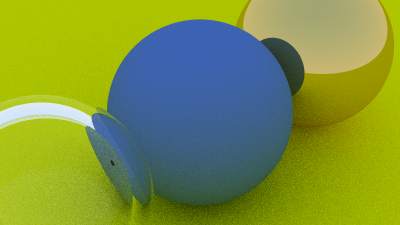
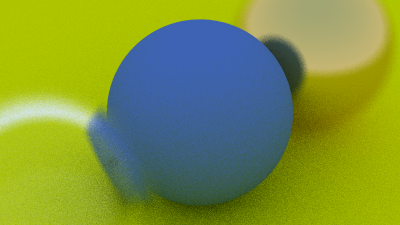
Depth of field

diff --git a/src/camera.cpp b/src/camera.cpp
@@ -14,12 +14,9 @@ void Camera::initialize() {
 
     m_cameraCenter = m_cameraProps.lookFrom;
 
-    const auto focalLength =
-        (m_cameraProps.lookFrom - m_cameraProps.lookAt).length();
-
     const auto theta = degreesToRadians(m_cameraProps.vFov);
     const auto height = std::tan(theta / 2);
-    const auto viewportHeight = 2.0 * height * focalLength;
+    const auto viewportHeight = 2.0 * height * m_cameraProps.focusDist;
     const auto viewportWidth =
         viewportHeight * (static_cast<double>(m_cameraProps.imageWidth) /
                           static_cast<double>(m_imageHeight));
@@ -34,9 +31,17 @@ void Camera::initialize() {
     m_pixelDeltaU = viewportU / static_cast<double>(m_cameraProps.imageWidth);
     m_pixelDeltaV = viewportV / static_cast<double>(m_imageHeight);
 
-    const auto viewportUpperLeft = m_cameraCenter - focalLength * m_cameraW -
+    const auto viewportUpperLeft = m_cameraCenter -
+                                   m_cameraProps.focusDist * m_cameraW -
                                    viewportU / 2 - viewportV / 2;
     m_pixel00Loc = viewportUpperLeft + 0.5 * (m_pixelDeltaU + m_pixelDeltaV);
+
+    const auto defocusRadius =
+        m_cameraProps.focusDist *
+        std::tan(degreesToRadians(m_cameraProps.defocusAngle / 2));
+
+    m_defocusDiskU = m_cameraU * defocusRadius;
+    m_defocusDiskV = m_cameraV * defocusRadius;
 
     // Renderer.
     m_image = cimg_library::CImg<uint8_t>(

diff --git a/include/camera.hpp b/include/camera.hpp
@@ -23,6 +23,8 @@ struct CameraProps {
     Point3 lookFrom = Point3{0, 0, -1};
     Point3 lookAt = Point3{0, 0, 0};
     Vec3 vUp = Vec3{0, 1, 0};
+    double defocusAngle = 0.0;
+    double focusDist = 10.0;
 };
 
 class Camera {
@@ -104,7 +106,8 @@ class Camera {
                            (static_cast<double>(jCoord) * m_pixelDeltaV);
         auto pixelSample = pixelCenter + pixelSampleSquare();
 
-        auto rayOrigin = m_cameraCenter;
+        auto rayOrigin = m_cameraProps.defocusAngle <= 0 ? m_cameraCenter
+                                                         : defocusDiskSample();
         auto rayDirection = pixelSample - rayOrigin;
 
         return Ray{rayOrigin, rayDirection};
@@ -116,6 +119,13 @@ class Camera {
         auto pointY = -0.5 + randomDouble();
 
         return (pointX * m_pixelDeltaU) + (pointY * m_pixelDeltaV);
+    }
+
+    [[nodiscard]]
+    auto defocusDiskSample() const -> Point3 {
+        const auto point = randomInUnitDisk();
+        return m_cameraCenter + (point.getX() * m_defocusDiskU) +
+               (point.getY() * m_defocusDiskV);
     }
 
     CameraProps m_cameraProps{};
@@ -130,6 +140,9 @@ class Camera {
     Vec3 m_cameraU{};
     Vec3 m_cameraV{};
     Vec3 m_cameraW{};
+
+    Vec3 m_defocusDiskU{};
+    Vec3 m_defocusDiskV{};
 
     cimg_library::CImg<uint8_t> m_image{};
 };

diff --git a/src/main.cpp b/src/main.cpp
@@ -16,6 +16,8 @@ auto main([[maybe_unused]] int argc, [[maybe_unused]] char *argv[]) -> int {
     static constexpr size_t s_samplesPerPixel = 100u;
     static constexpr size_t s_maxDepth = 50u;
     static constexpr double s_vFov = 20.0;
+    static constexpr double s_defocusAngle = 10.0;
+    static constexpr double s_focusDist = 3.4;
 
     auto world = HittableList{};
 
@@ -46,7 +48,9 @@ auto main([[maybe_unused]] int argc, [[maybe_unused]] char *argv[]) -> int {
                                    .vFov = s_vFov,
                                    .lookFrom = Point3{-2, 2, 1},
                                    .lookAt = Point3{0, 0, -1},
-                                   .vUp = Vec3{0, 1, 0}};
+                                   .vUp = Vec3{0, 1, 0},
+                                   .defocusAngle = s_defocusAngle,
+                                   .focusDist = s_focusDist};
 
     auto camera = Camera{cameraProps};
 

diff --git a/include/vec3.hpp b/include/vec3.hpp
@@ -4,6 +4,8 @@
 #include <array>
 #include <cstddef>
 
+#include <rtweekend.hpp>
+
 #include <fmt/format.h>
 
 class Vec3 {
@@ -134,5 +136,14 @@ inline auto refract(const Vec3 &unitVector, const Vec3 &normal,
         -std::sqrt(std::fabs(1.0 - rOutPerp.lengthSquared())) * normal;
     return rOutPerp + rOutParallel;
 }
+
+inline auto randomInUnitDisk() -> Vec3 {
+    while (true) {
+        const auto point = Vec3{randomDouble(-1, 1), randomDouble(-1, 1), 0};
+        if (point.lengthSquared() < 1) {
+            return point;
+        }
+    };
+};
 
 #endif

diff --git a/include/rtweekend.hpp b/include/rtweekend.hpp
@@ -7,8 +7,6 @@
 #include <random>
 
 #include <interval.hpp>
-#include <ray.hpp>
-#include <vec3.hpp>
 
 constexpr double s_infinity = std::numeric_limits<double>::infinity();
 constexpr double s_pi = std::numbers::pi;
